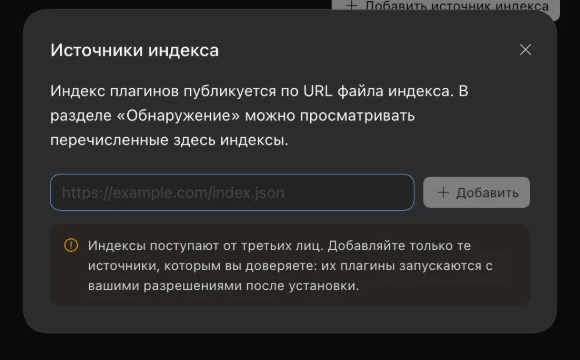
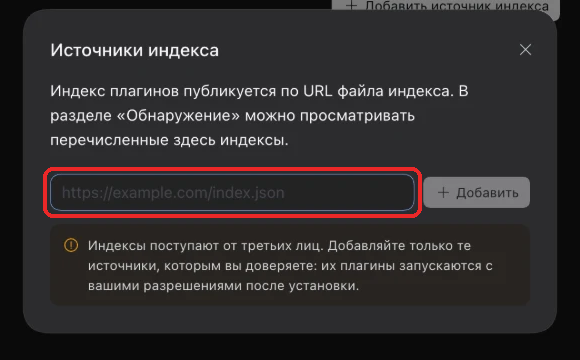
выпуск 0.1.4

Changed region(s): [[0.0621, 0.4583, 0.7448, 0.6111]]

diff --git a/tools/проверка_бандла.py b/tools/проверка_бандла.py
@@ -137,8 +137,8 @@ def проверки_состава() -> list:
     патч = м.get('dsh', {}).get('bundle', {}).get('patch')
     if патч != './' + ПАТЧ_ФАЙЛ:
         беды.append(f'бандл: dsh.bundle.patch должен быть ./{ПАТЧ_ФАЙЛ}, а не {патч!r}')
-    if м.get('private') is not True:
-        беды.append('бандл: пока не опубликован, private должен быть true')
+    if м.get('private') is True:
+        беды.append('бандл: опубликован в npm, private: true не даст выпустить новую версию')
     if 'main' in м:
         беды.append('бандл: у бандла нет своего кода — main не нужен')
     файл_патча = os.path.join(каталог, ПАТЧ_ФАЙЛ)

diff --git a/УСТАНОВКА.md b/УСТАНОВКА.md
@@ -5,7 +5,7 @@
 - **Plexus DSH** (`@plexus-dsh/bundle`). Это четыре плагина одним пакетом: счётчик окна, тёплый кэш, обрезка больших чтений и разведчик.
 - **Плексус** (`@plexus-dsh/plexus`). Это команды `/plexus-*` и работники `plexus-programmer` и `plexus-analyst`.
 
-Установка занимает пару минут, всё делается кнопками. Скриншоты сняты в русском интерфейсе, английские подписи даны в скобках.
+Установка занимает пару минут, всё делается кнопками. Скриншоты сняты в русском интерфейсе, английские подписи даны в скобках. Красной рамкой обведено то, что нужно нажать.
 
 ## Установка
 
